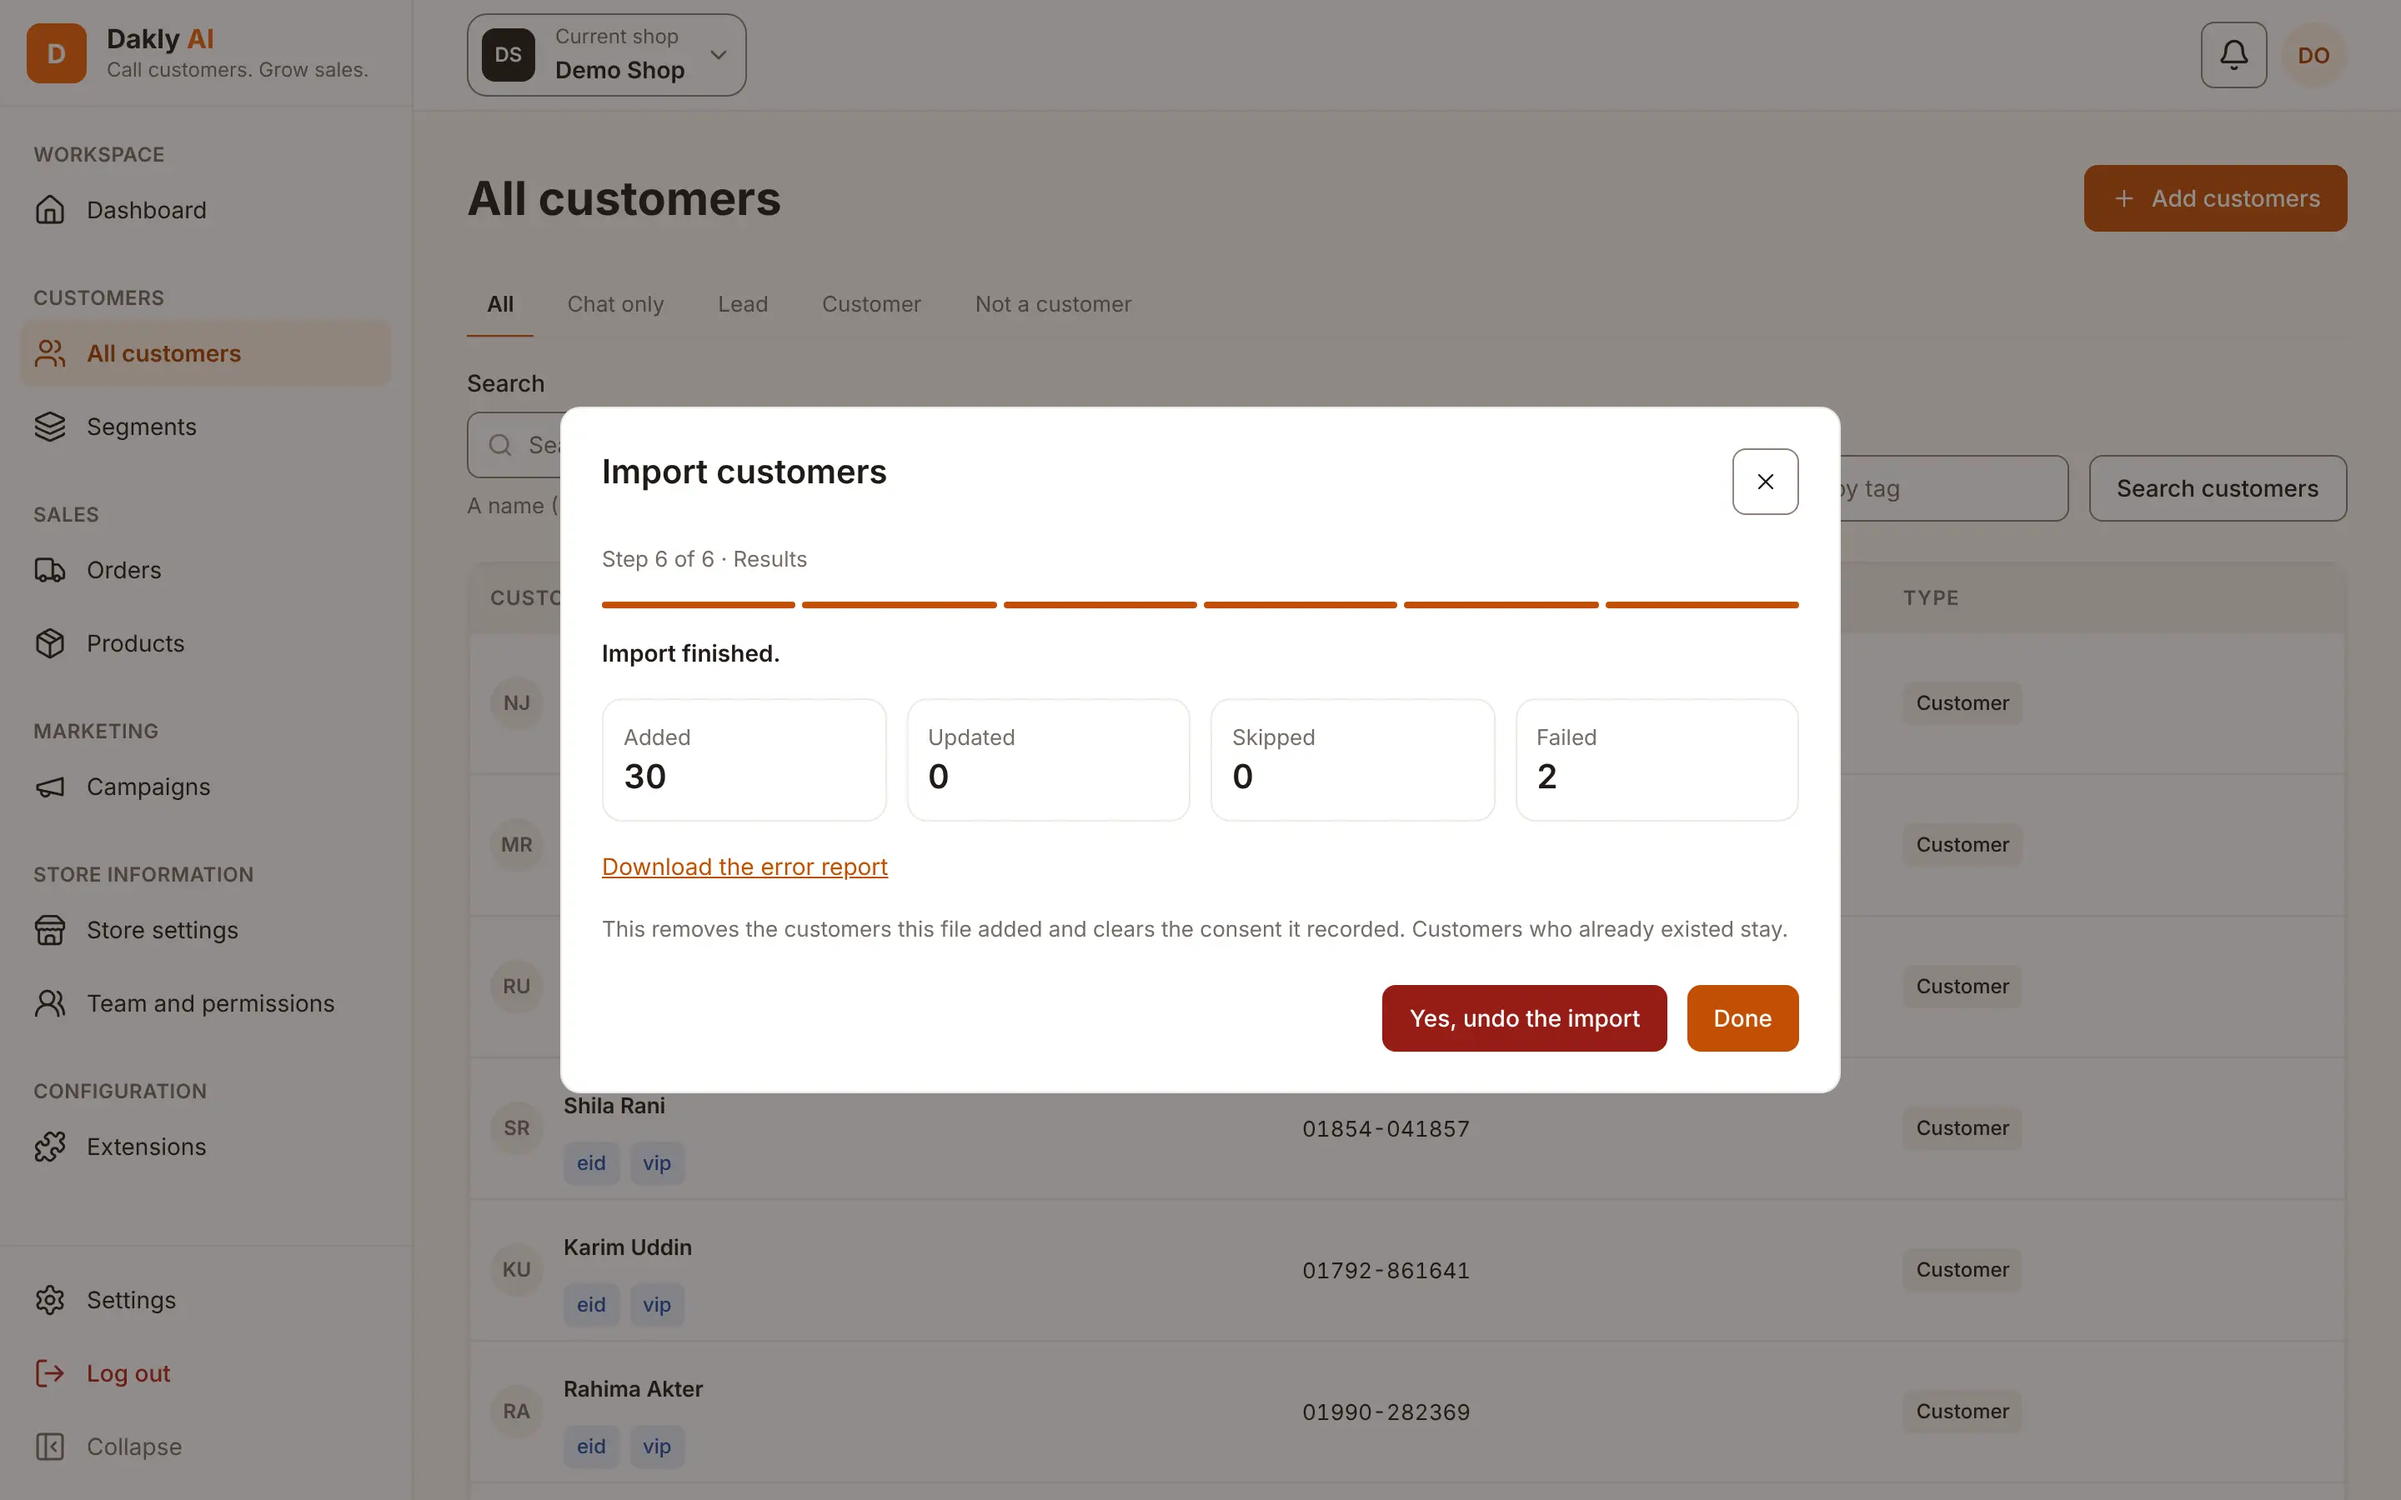
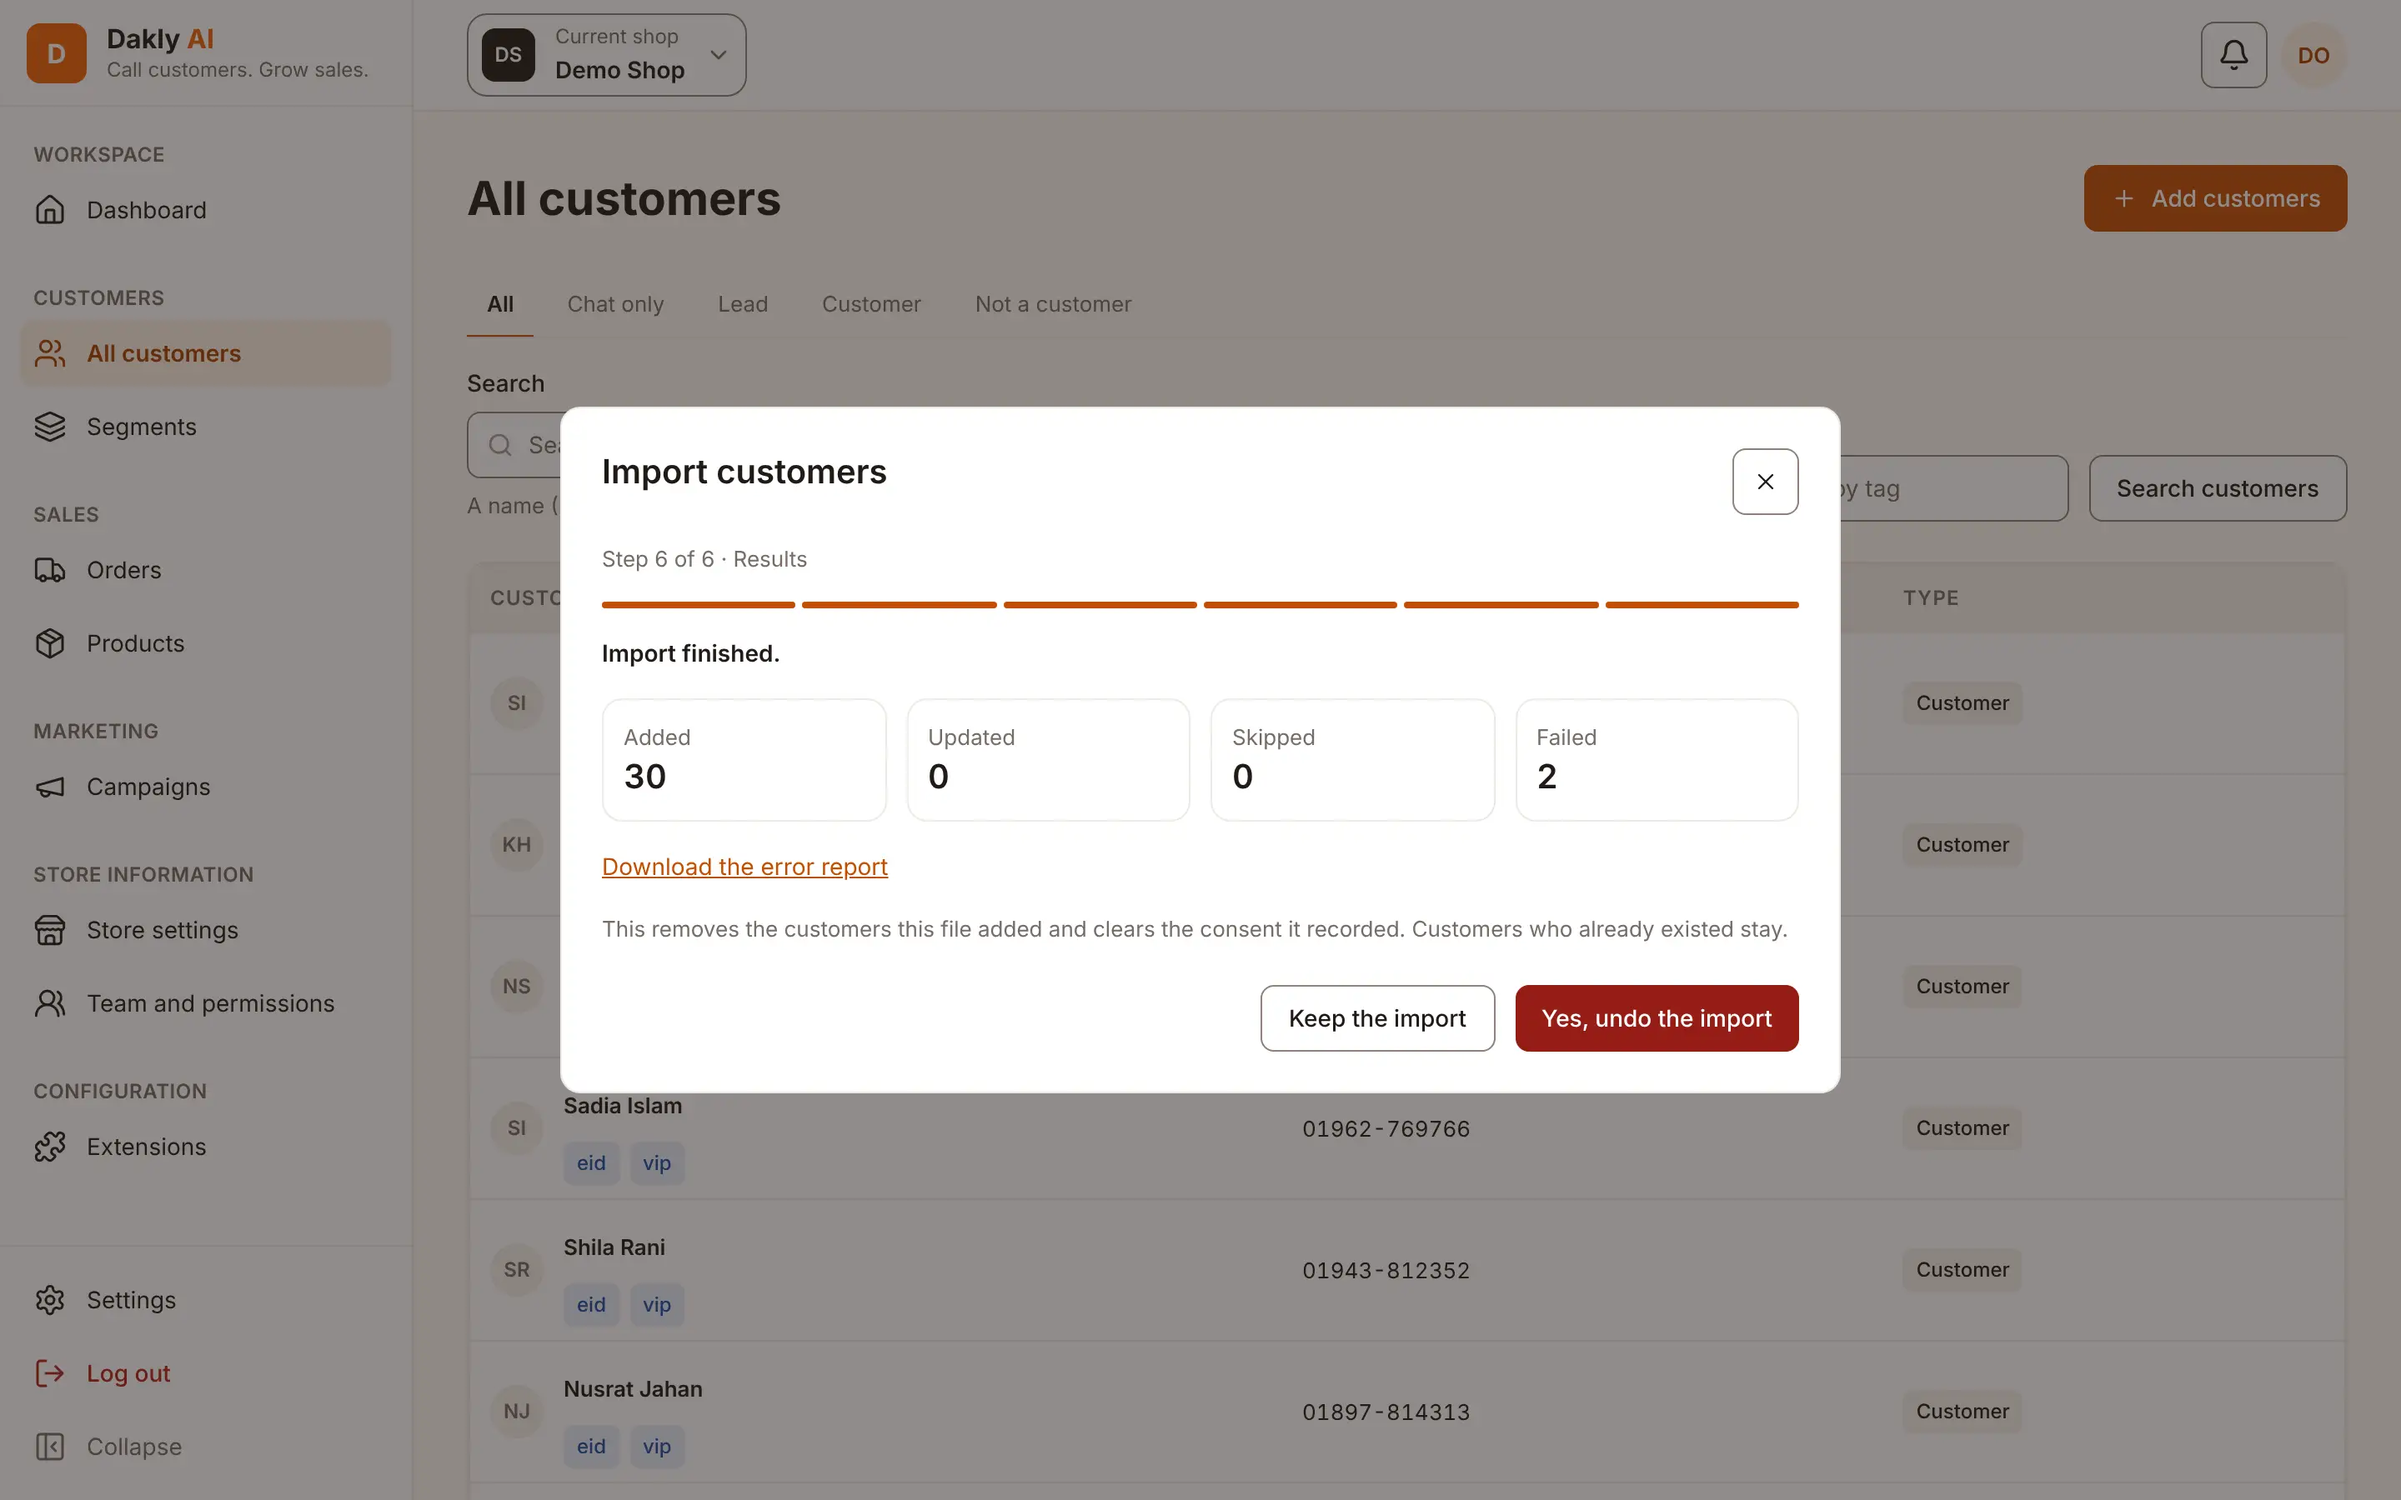
fix(cus-8): let the owner keep the import after pressing undo
While the undo question is open, the results show Keep the import and Yes, undo the import, and hide Done. The test presses Keep the import and checks that no undo was sent.

diff --git a/apps/web/src/features/customers/components/import-result-step.tsx b/apps/web/src/features/customers/components/import-result-step.tsx
@@ -32,8 +32,6 @@ export function ImportResultStep({ importId, onDone }: ImportResultStepProps) {
 type ImportResultProps = { current: ImportResponse; importId: string; onDone: () => void };
 
 function ImportResult({ current, importId, onDone }: ImportResultProps) {
-  const [confirming, setConfirming] = useState(false);
-  const undo = useUndoImport(importId);
   const undone = current.status === 'undone';
   const counts = [
     ['Added', current.rowsAdded],
@@ -59,29 +57,7 @@ function ImportResult({ current, importId, onDone }: ImportResultProps) {
           Download the error report
         </a>
       ) : null}
-      {undo.error ? (
-        <p role="alert" className="text-danger">
-          {undo.error.message}
-        </p>
-      ) : null}
-      {confirming && !undone ? (
-        <p className="text-sm text-text-muted">
-          This removes the customers this file added and clears the consent it recorded. Customers
-          who already existed stay.
-        </p>
-      ) : null}
-      <div className="flex flex-wrap items-center justify-end gap-3 pt-2">
-        {undone ? null : (
-          <Button
-            variant={confirming ? 'danger' : 'secondary'}
-            loading={undo.isPending}
-            onClick={() => (confirming ? undo.mutate() : setConfirming(true))}
-          >
-            {confirming ? 'Yes, undo the import' : 'Undo import'}
-          </Button>
-        )}
-        <Button onClick={onDone}>Done</Button>
-      </div>
+      <ImportActions importId={importId} undone={undone} onDone={onDone} />
     </div>
   );
 }
@@ -92,4 +68,48 @@ function resultMessage(current: ImportResponse) {
   if (current.status === 'failed')
     return 'The import stopped. Customers saved before it stopped are kept.';
   return 'Import finished.';
+}
+
+type ImportActionsProps = { importId: string; undone: boolean; onDone: () => void };
+
+function ImportActions({ importId, undone, onDone }: ImportActionsProps) {
+  const [confirming, setConfirming] = useState(false);
+  const undo = useUndoImport(importId);
+  const asking = confirming && !undone;
+  return (
+    <>
+      {undo.error ? (
+        <p role="alert" className="text-danger">
+          {undo.error.message}
+        </p>
+      ) : null}
+      {asking ? (
+        <p className="text-sm text-text-muted">
+          This removes the customers this file added and clears the consent it recorded. Customers
+          who already existed stay.
+        </p>
+      ) : null}
+      <div className="flex flex-wrap items-center justify-end gap-3 pt-2">
+        {asking ? (
+          <Button
+            variant="secondary"
+            disabled={undo.isPending}
+            onClick={() => setConfirming(false)}
+          >
+            Keep the import
+          </Button>
+        ) : null}
+        {undone ? null : (
+          <Button
+            variant={asking ? 'danger' : 'secondary'}
+            loading={undo.isPending}
+            onClick={() => (asking ? undo.mutate() : setConfirming(true))}
+          >
+            {asking ? 'Yes, undo the import' : 'Undo import'}
+          </Button>
+        )}
+        {asking ? null : <Button onClick={onDone}>Done</Button>}
+      </div>
+    </>
+  );
 }

diff --git a/apps/web/src/features/customers/components/customers.spec.tsx b/apps/web/src/features/customers/components/customers.spec.tsx
@@ -426,7 +426,12 @@ describe('Import customers', () => {
     show(<ImportResultStep importId={importId} onDone={() => undefined} />);
     const user = userEvent.setup();
     await user.click(await screen.findByRole('button', { name: 'Undo import' }));
+    expect(screen.queryByRole('button', { name: 'Done' })).toBeNull();
+    await user.click(screen.getByRole('button', { name: 'Keep the import' }));
+    expect(screen.getByRole('button', { name: 'Undo import' })).toBeTruthy();
+    expect(screen.getByRole('button', { name: 'Done' })).toBeTruthy();
     expect(sent.some((request) => request.path.endsWith('/undo'))).toBe(false);
+    await user.click(screen.getByRole('button', { name: 'Undo import' }));
     await user.click(screen.getByRole('button', { name: 'Yes, undo the import' }));
     expect(await screen.findByText('Undoing the import.')).toBeTruthy();
     expect(screen.queryByRole('button', { name: 'Undo import' })).toBeNull();
